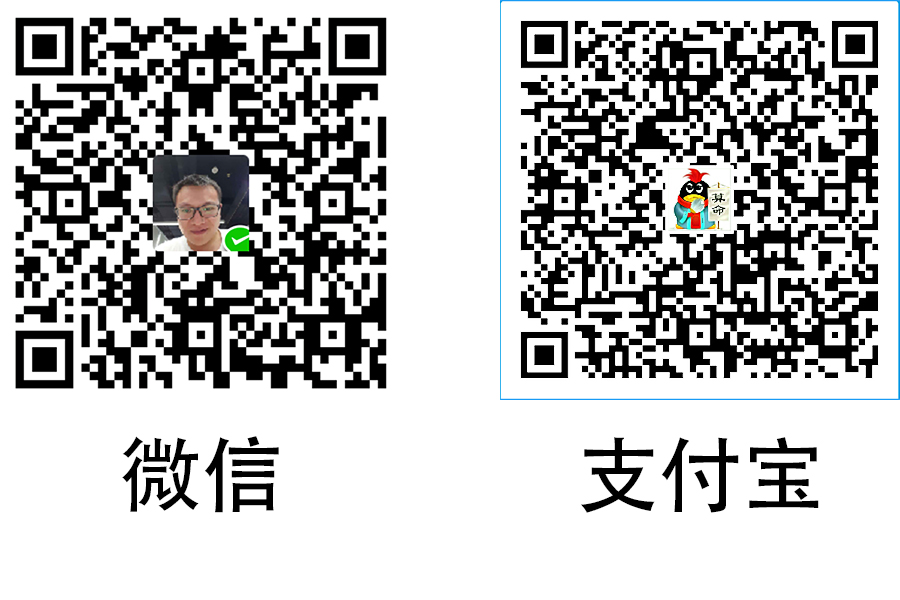
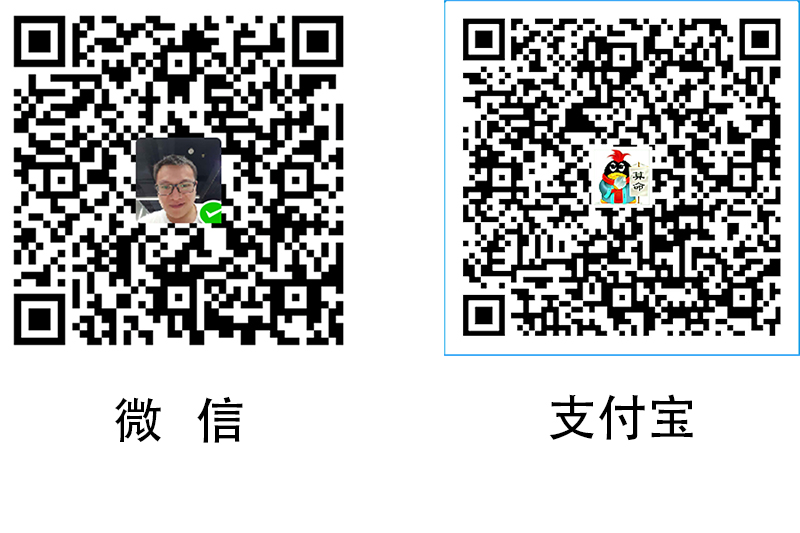
update scripts

diff --git a/README.md b/README.md
@@ -44,4 +44,6 @@
 
 录制这样一套视频确实是需要花费时间和心血的，如果您觉得它对您有帮助，可以通过微信和支付宝的方式进行捐助，我将努力将视频做到最好！谢谢！
 
-![微信](arts/contributes.jpg)
+<img src="arts/contributes.jpg" width="450px"/>
+
+
